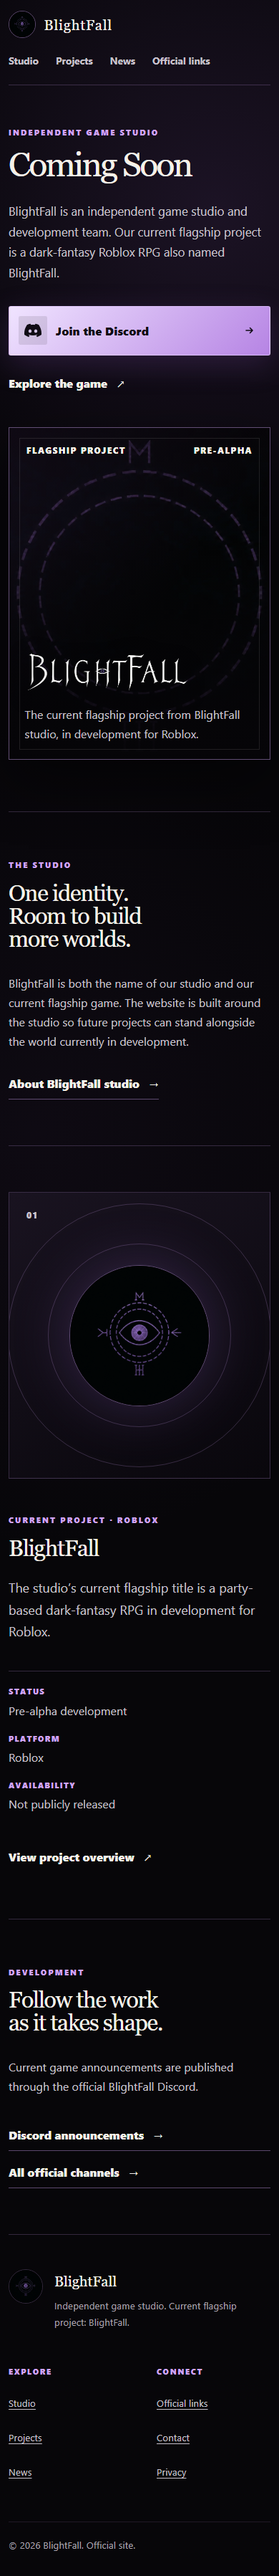
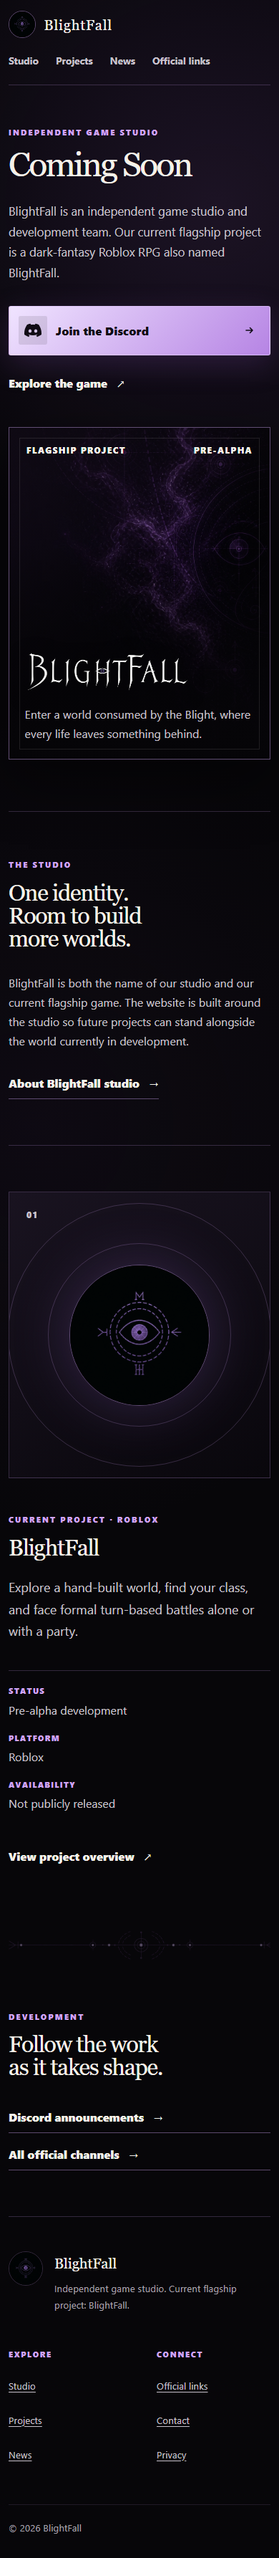
Integrate approved atmosphere artwork

diff --git a/tests/site.e2e.test.ts b/tests/site.e2e.test.ts
@@ -76,6 +76,34 @@ test('approved social destinations are published and unconfirmed destinations ar
   await expect(page.getByRole('link', { name: /latest gameplay/i })).toHaveCount(0);
 });
 
+test('the permanent links page stays compact and does not repeat editorial game copy', async ({
+  page,
+}) => {
+  await page.goto('/links/');
+  await expect(page.getByRole('heading', { level: 1, name: 'Official links' })).toBeVisible();
+  await expect(page.locator('.hero__description')).toHaveCount(0);
+  await expect(page.locator('.hero__message')).toHaveCount(0);
+  await expect(page.getByText(/Explore a hand-built world/i)).toHaveCount(0);
+  await expect(page.locator('img[src*="atmosphere"]')).toHaveCount(0);
+});
+
+test('studio and homepage teasers do not repeat destination-page body copy', async ({ page }) => {
+  await page.goto('/studio/');
+  await expect(
+    page.getByText('BlightFall is an independent game studio and development team.', {
+      exact: false,
+    }),
+  ).toHaveCount(0);
+  await expect(page.getByText(/upcoming dark-fantasy Roblox RPG/i)).toHaveCount(0);
+
+  await page.goto('/');
+  await expect(
+    page.getByText(
+      'Current game announcements are published through the official BlightFall Discord.',
+    ),
+  ).toHaveCount(0);
+});
+
 test('studio navigation exposes the public site structure', async ({ page }) => {
   await page.goto('/');
   const navigation = page.getByRole('navigation', { name: 'Primary navigation' });
@@ -105,6 +133,51 @@ for (const [path, selector] of brandImages) {
     expect(Math.abs(dimensions.naturalRatio - dimensions.renderedRatio)).toBeLessThan(0.02);
   });
 }
+
+const atmosphereImages = [
+  ['/', '.flagship-visual__backdrop', 'eager'],
+  ['/projects/', '.project-listing__backdrop', 'lazy'],
+  ['/projects/blightfall/', '.game-hero__backdrop', 'eager'],
+] as const;
+
+for (const [path, selector, loading] of atmosphereImages) {
+  test(`${path} uses the responsive game atmosphere artwork`, async ({ page }) => {
+    await page.goto(path);
+    const picture = page.locator(selector);
+    const image = picture.locator('img');
+    const expectedAsset =
+      (page.viewportSize()?.width ?? 0) <= 736
+        ? 'game-atmosphere-mobile-1024x1536.webp'
+        : 'game-atmosphere-desktop-1600x900.webp';
+
+    await expect(picture.locator('source')).toHaveAttribute(
+      'srcset',
+      '/assets/site/game-atmosphere-mobile-1024x1536.webp',
+    );
+    await expect(image).toHaveAttribute('loading', loading);
+    await expect
+      .poll(() => image.evaluate((element: HTMLImageElement) => element.currentSrc))
+      .toContain(expectedAsset);
+  });
+}
+
+test('the studio header uses only the approved studio atmosphere artwork', async ({ page }) => {
+  await page.goto('/studio/');
+  const hero = page.locator('.editorial-hero--atmosphere');
+  await expect(hero.locator('.editorial-hero__backdrop')).toHaveAttribute(
+    'src',
+    '/assets/site/studio-atmosphere-1600x900.webp',
+  );
+  await expect(hero.locator('img[src*="game-atmosphere"]')).toHaveCount(0);
+});
+
+test('arcane dividers remain decorative and selective', async ({ page }) => {
+  await page.goto('/');
+  await expect(page.locator('.arcane-divider')).toHaveCount(1);
+  await expect(page.locator('.arcane-divider img')).toHaveAttribute('alt', '');
+  await page.goto('/projects/blightfall/');
+  await expect(page.locator('.arcane-divider')).toHaveCount(1);
+});
 
 test('contact publishes only the approved categorized inboxes', async ({ page }) => {
   await page.goto('/contact/');

diff --git a/src/styles/global.css b/src/styles/global.css
@@ -288,11 +288,17 @@ p {
   z-index: -3;
   width: 100%;
   height: 100%;
+}
+
+.flagship-visual__backdrop img,
+.game-hero__backdrop img {
+  width: 100%;
+  height: 100%;
   object-fit: cover;
   transition: transform 500ms ease;
 }
 
-.flagship-visual:hover .flagship-visual__backdrop {
+.flagship-visual:hover .flagship-visual__backdrop img {
   transform: scale(1.025);
 }
 
@@ -335,6 +341,28 @@ p {
 .section-block {
   padding-block: clamp(4rem, 9vw, 8rem);
   border-top: 1px solid var(--line);
+}
+
+.arcane-divider {
+  position: relative;
+  height: clamp(4rem, 7vw, 6rem);
+  overflow: hidden;
+  opacity: 0.4;
+  pointer-events: none;
+}
+
+.arcane-divider img {
+  position: absolute;
+  top: 50%;
+  left: 50%;
+  width: 100%;
+  max-width: none;
+  height: auto;
+  transform: translate(-50%, -50%);
+}
+
+.arcane-divider + .section-block {
+  border-top: 0;
 }
 
 .studio-intro,
@@ -503,11 +531,48 @@ p {
   max-width: 13ch;
 }
 
-.editorial-hero > p:last-child {
+.editorial-hero > p:last-child:not(.eyebrow) {
   max-width: 45rem;
   margin: 1.75rem 0 0;
   color: var(--ivory-muted);
   font-size: clamp(1.05rem, 1.7vw, 1.24rem);
+}
+
+.editorial-hero--atmosphere {
+  position: relative;
+  min-height: clamp(29rem, 52vw, 41rem);
+  overflow: hidden;
+  padding: clamp(2rem, 6vw, 5rem);
+  border: 1px solid var(--line);
+  isolation: isolate;
+}
+
+.editorial-hero--atmosphere > .eyebrow,
+.editorial-hero--atmosphere > h1,
+.editorial-hero--atmosphere > p:last-child:not(.eyebrow) {
+  position: relative;
+  z-index: 2;
+}
+
+.editorial-hero__backdrop,
+.editorial-hero__shade {
+  position: absolute;
+  inset: 0;
+  width: 100%;
+  height: 100%;
+}
+
+.editorial-hero__backdrop {
+  z-index: -2;
+  object-fit: cover;
+  object-position: center;
+}
+
+.editorial-hero__shade {
+  z-index: -1;
+  background:
+    linear-gradient(90deg, rgb(7 6 9 / 94%) 0%, rgb(7 6 9 / 75%) 43%, rgb(7 6 9 / 28%) 78%),
+    linear-gradient(to top, rgb(7 6 9 / 86%), transparent 70%);
 }
 
 .editorial-grid {
@@ -516,6 +581,10 @@ p {
 
 .editorial-grid--bordered {
   border-top: 1px solid var(--line);
+}
+
+.editorial-grid--compact {
+  padding-block: clamp(3rem, 6vw, 5rem);
 }
 
 .projects-page .editorial-hero {
@@ -548,14 +617,21 @@ p {
   content: '';
 }
 
-.project-listing__visual img {
+.project-listing__backdrop {
+  position: absolute;
+  inset: 0;
+  width: 100%;
+  height: 100%;
+}
+
+.project-listing__backdrop img {
   width: 100%;
   height: 100%;
   object-fit: cover;
   transition: transform 500ms ease;
 }
 
-.project-listing:hover .project-listing__visual img {
+.project-listing:hover .project-listing__backdrop img {
   transform: scale(1.025);
 }
 
@@ -1305,6 +1381,19 @@ p {
   .game-hero {
     min-height: 34rem;
     padding: 1.5rem;
+  }
+
+  .editorial-hero--atmosphere {
+    min-height: 32rem;
+    padding: 1.5rem;
+  }
+
+  .editorial-hero__backdrop {
+    object-position: 58% center;
+  }
+
+  .arcane-divider img {
+    width: 190%;
   }
 
   .game-status {

diff --git a/docs/ARCHITECTURE.md b/docs/ARCHITECTURE.md
@@ -32,8 +32,9 @@ also require a non-null date.
 **Status:** accepted
 
 The site uses current approved BlightFall exports. Web copies are isolated in `public/`; the original
-production library is not imported. No unrelated fantasy symbols, generated artwork, or unapproved
-fonts are included.
+production library is not imported. Responsive game atmosphere artwork uses native `<picture>`
+art direction, while studio atmosphere artwork remains studio-scoped and decorative dividers are
+used sparingly. No unrelated fantasy symbols, generated artwork, or unapproved fonts are included.
 
 ## ADR-005: Analytics disabled by default
 
@@ -91,8 +92,9 @@ approved. The form must not request unnecessary personal information.
 
 The homepage uses a wide editorial composition with global navigation, a flagship-project feature,
 and studio-level sections. `/links/` remains a compact, durable social-bio destination backed by the
-same central configuration. This prevents the public website from reading as a single profile card
-while keeping the link route fast and easy to maintain.
+same central configuration. It deliberately omits game and studio body copy already published on
+dedicated routes. This prevents the public website from reading as a single profile card while
+keeping the link route fast and easy to maintain.
 
 Public navigation exposes only useful routes with approved copy. Team data remains modeled but a
 team route is deferred until approved profiles exist, avoiding an empty or speculative public page.

diff --git a/docs/CONTENT_MAINTENANCE.md b/docs/CONTENT_MAINTENANCE.md
@@ -52,6 +52,8 @@ consent language, retention policy, and privacy-page update are approved.
 - Keep `siteConfig.description` studio-level and legally neutral.
 - Keep gameplay copy in the relevant project record rather than the studio profile.
 - Page-specific titles and descriptions live in `src/pages/`.
+- Give each route distinct body copy. `/links/` is a destination utility and should not repeat game
+  descriptions or studio introductions from editorial pages.
 - Do not add a release date to structured data until approved.
 - Use `Organization` structured data for the studio site and `VideoGame` only on game-specific pages.
 - Keep social-image dimensions at 1200×630 and use approved assets only.
@@ -81,4 +83,7 @@ answer the inquiry.
 
 Place optimized public exports in `public/assets/`, icons in `public/icons/`, and sharing previews in
 `public/social/`. Preserve aspect ratio, alternative text, and explicit width/height attributes.
-Source files and private production libraries should stay outside this repository.
+Approved atmosphere artwork lives in `public/assets/site/`: use the paired desktop/mobile game files
+through `GameAtmosphere.astro`, keep studio artwork separate from gameplay presentation, and use the
+arcane divider selectively. Source files and private production libraries should stay outside this
+repository.

diff --git a/ROADMAP.md b/ROADMAP.md
@@ -39,6 +39,8 @@ implemented. Future work in this phase is approved content expansion rather than
 - Expanded game hero and approved trailer
 - Public-safe overview and approved gameplay features
 - Screenshot and media gallery
+- Optional rotating galleries for future approved key art and screenshots, with a static and
+  reduced-motion fallback
 - Approved sections for the world, races, classes, combat, and party systems
 - Release status, platform availability, and play/follow/favourite actions
 - Discord community callout
